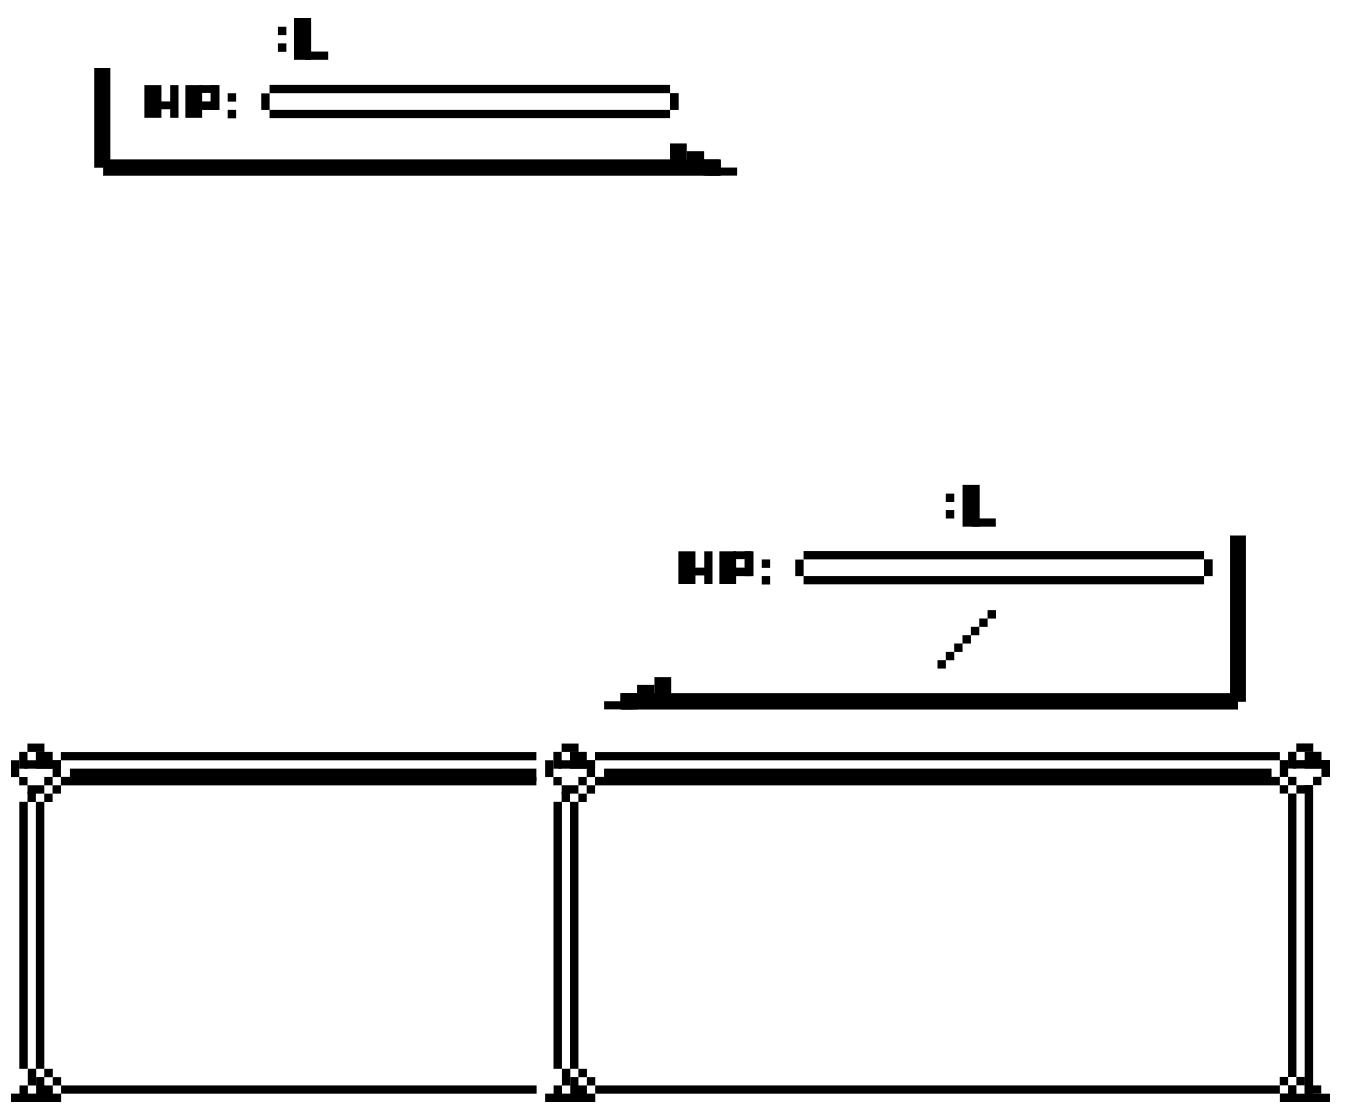
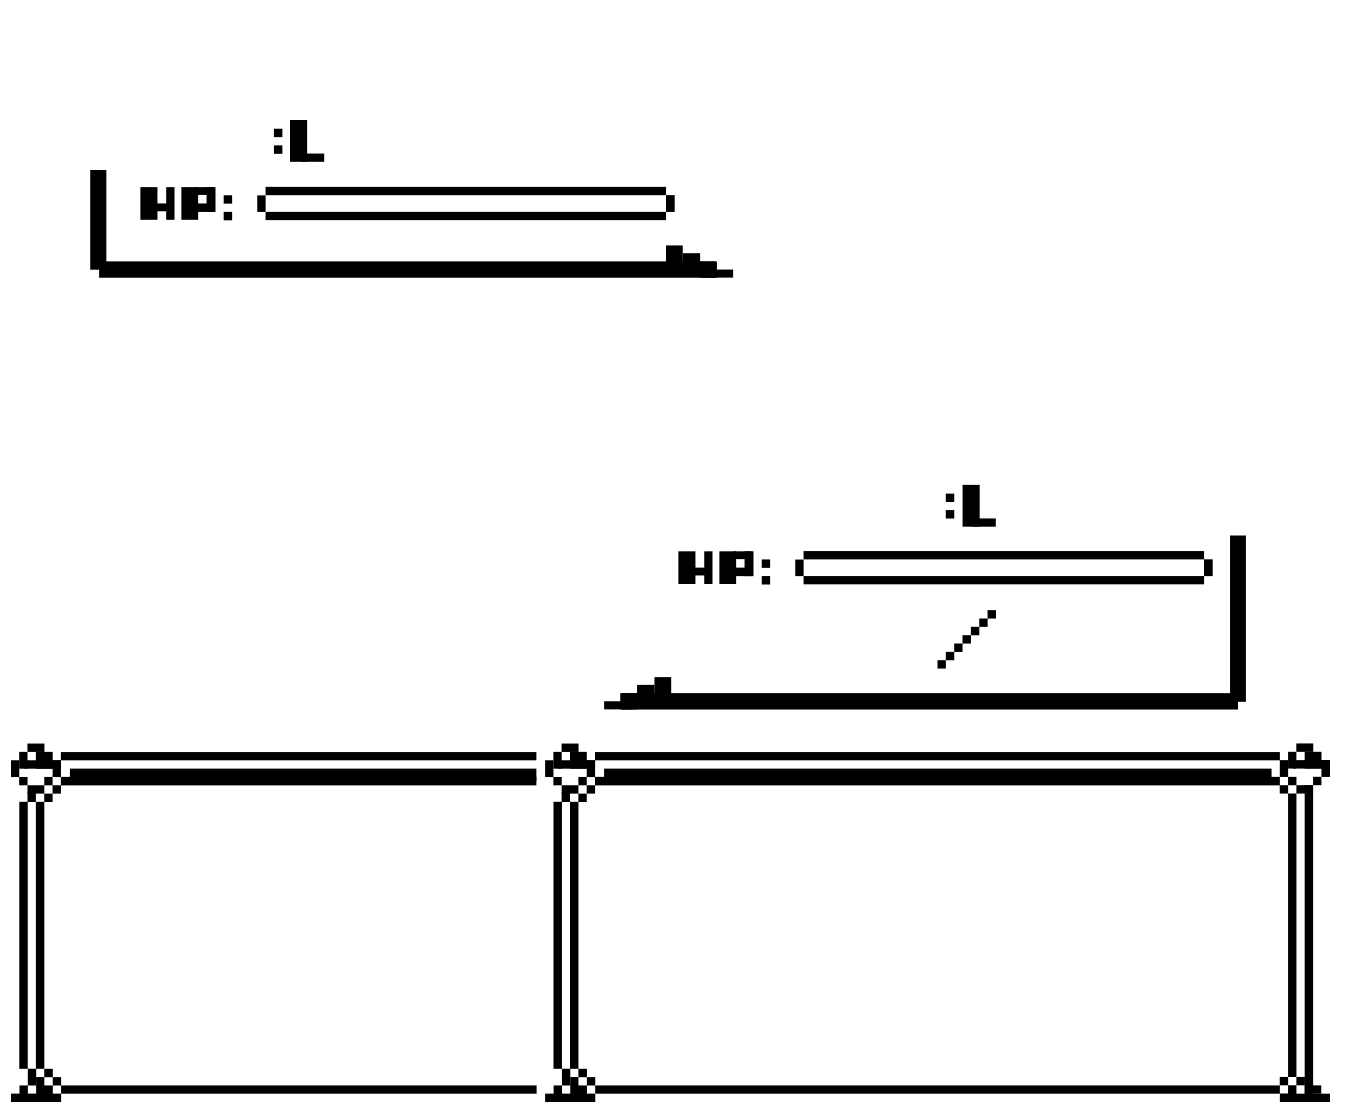
additional animations

Changed region(s): [[0.062, 0.0, 0.5583, 0.2744]]

diff --git a/js/app.js b/js/app.js
@@ -20,6 +20,9 @@ $(()=> {
   const $you = $('#you');
   const $rival = $('#opponent');
   const $scratchAnimation = $('#scratchAnimation');
+  const $growlAnimation = $('#growlAnimation');
+  const $batteryLight = $('#light');
+  const $offScreen = $('#offScreen');
 
   let you = 'CHARMANDER';
   let rival = 'SQUIRTLE';
@@ -116,12 +119,20 @@ $(()=> {
       $winScreen.fadeIn(1000);
       wins++;
       $yourScore.html(wins);
+      $batteryLight.css({'background': '#272424'});
+      setTimeout(offScreenFadeIn, 1000);
     }else if(yourHP <= 0){
       $winLose.html('You Lose!');
       $winScreen.fadeIn(1000);
       losses++;
       $rivalScore.html(losses);
+      setTimeout(offScreenFadeIn, 1000);
+      $batteryLight.css({'background': '#272424'});
     }
+  }
+
+  function offScreenFadeIn(){
+    $offScreen.fadeIn(400);
   }
 
   function checkAttack(){
@@ -163,20 +174,27 @@ $(()=> {
       $you.animate({left: '28%'});
       $you.animate({left: '24%'});
       if(hit){
-      $scratchAnimation.fadeIn(500);
-      $scratchAnimation.fadeOut(500);
-      $rival.fadeOut(200);
-      $rival.fadeIn(200);
-      $rival.fadeOut(200);
-      $rival.fadeIn(200);
-      $rival.fadeOut(200);
-      $rival.fadeIn(200);
+        $scratchAnimation.fadeIn(500);
+        $scratchAnimation.fadeOut(500);
+        $rival.fadeOut(200);
+        $rival.fadeIn(200);
+        $rival.fadeOut(200);
+        $rival.fadeIn(200);
+        $rival.fadeOut(200);
+        $rival.fadeIn(200);
       }
     }else if((you==='CHARMANDER') && (attack==='GROWL')){
       console.log('GROWL');
       $you.animate({left: '26%'});
       $you.animate({left: '22%'});
       $you.animate({left: '24%'});
+      $growlAnimation.fadeIn(100);
+      $growlAnimation.animate({top: '40%', left: '58%'});
+      $growlAnimation.animate({top: '33%', left: '51%'});
+      $growlAnimation.animate({top: '40%', left: '46%'});
+      $growlAnimation.animate({top: '33%', left: '39%'});
+      $growlAnimation.fadeOut(100);
+      $growlAnimation.animate({top: '33%', left: '65%'});
     }else if((you==='SQUIRTLE') && (attack==='TACKLE')){
       console.log('TACKLE');
       $rival.animate({left: '62%', top:'24%'});
@@ -235,6 +253,8 @@ $(()=> {
     $oppHPBar.animate({width: '20.7%'}, 100 );
     $yourHPBar.animate({width: '20.7%'}, 100 );
     $yourCurrent.html(`${yourTotalHP}`);
+    $batteryLight.css({'background': '#ff1c1c'});
+    $offScreen.fadeOut(100);
   }
 
 

diff --git a/css/style.css b/css/style.css
@@ -8,10 +8,10 @@
   font-family: 'Pokemon_GB';
   src: url(../assets/jackster-productions_pokemon-gb/Pokemon_GB.ttf);
 }
-/*body, html {
+body, html {
     overflow-x: hidden;
     overflow-y: hidden;
-}*/
+}
 
 p{
   text-align: left;
@@ -249,11 +249,11 @@ background: none;
 
 #opponentshealth{
   height:1.05%;
-  width:20.7%;
+  width:20.75%;
   background: grey;
   position: absolute;
-  top:21.6%;
-  left:29%;
+  top:28.3%;
+  left:28.7%;
   z-index: 15;
   float:left;
   overflow-x: hidden;
@@ -287,7 +287,7 @@ background: none;
 
 #rivalLevel{
   position: absolute;
-  top:12%;
+  top:18.5%;
   left:33%;
 }
 
@@ -302,7 +302,7 @@ background: none;
 
 #rivalName{
   position: absolute;
-  top:9%;
+  top:15%;
   left:19%;
   width:0;
   padding: 0;
@@ -320,8 +320,29 @@ background: none;
   display: none;
 }
 
+#growlAnimation{
+  background: none;
+  position: absolute;
+  top:33%;
+  left:65%;
+  height:12%;
+  width:12%;
+  z-index:20;
+  display: none;
+}
+
 
 /*Gameboy*/
+
+#offScreen{
+  height:73.1%;
+  width:70.1%;
+  position: absolute;
+  top:15.45%;
+  left:15%;
+  z-index:16;
+  display: none;
+}
 
 .gb-body {
   width:102%;
@@ -377,11 +398,12 @@ border:1px solid darken(#BFBAC4,20%);
 
 .display-header-text {
     position: absolute;
-    top:6.5%;
+    top:6%;
     left:39%;
     font-family: Arial, Helvetica, sans-serif;
     color:#BFBAC4;
     font-size: 100%;
+    letter-spacing:3px;
     background: none;
     }
 
@@ -421,7 +443,7 @@ border:1px solid darken(#BFBAC4,20%);
 				position:absolute;
 				top:49%;
 				left:7.5%;
-				font-size: 10px;
+				font-size: 12px;
 				font-weight: bold;
 				font-family: Arial, Helvetica, sans-serif;
 			}

diff --git a/index.html b/index.html
@@ -25,10 +25,11 @@
     <h5 class="display-header-text">DOT MATRIX WITH STEREO SOUND</h5>
     <div class="display-header-text-after-first-border"></div>
     <div class="display-header-text-after-second-border"></div>
-    <div class="battery-led"></div>
+    <div id="light" class="battery-led"></div>
     <div class="battery-led-text">BATTERY</div>
 
     <img id="scratchAnimation" src="scratch.png" alt="scratch animation">
+    <img id="growlAnimation" src="growl.png" alt="growl animation">
     <img id="opponent" src="squirtle.png" alt="opponent">
     <img id="you" src="char.png" alt="you">
     <img id="battleBackground" src= "background.png" alt="battle">
@@ -40,13 +41,15 @@
     <p id="rivalLevel" class="number">5</p>
     <p id="yourName" class="text"></p>
     <p id="rivalName" class="text"></p>
+    <img id="offScreen" src="offscreen.png" alt="screen is turned off">
     <div id="fight">Fight</div>
+
 
     <div id="textBox" class="text"></div>
 
     <div id="attackBox">
-      <p id="scratch">Scratch</p>
-      <p id="growl">Growl</p>
+      <p id="scratch">SCRATCH</p>
+      <p id="growl">GROWL</p>
       <p id="dash1">-</p>
       <p id="dash2">-</p>
     </div>
